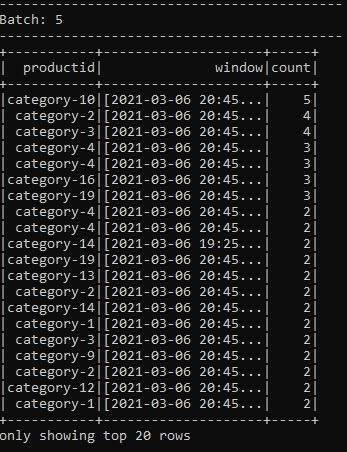
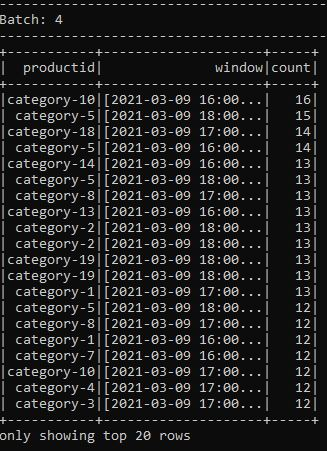
structure improved

Changed region(s): [[0.0, 0.0931, 0.9786, 0.9933], [0.0, 0.031, 0.1835, 0.0621]]

diff --git a/nifi_spark_kafka_product_view.py b/nifi_spark_kafka_product_view.py
@@ -23,7 +23,7 @@ if __name__ == "__main__":
     kafka_df = spark.readStream \
         .format("kafka") \
         .option("kafka.bootstrap.servers", "localhost:9092") \
-        .option("subscribe", "view") \
+        .option("subscribe", "view2") \
         .option("startingOffsets", "earliest") \
         .load()
 #Data in kafka topic have key-value format, from_json is used to deserialize json value from string
